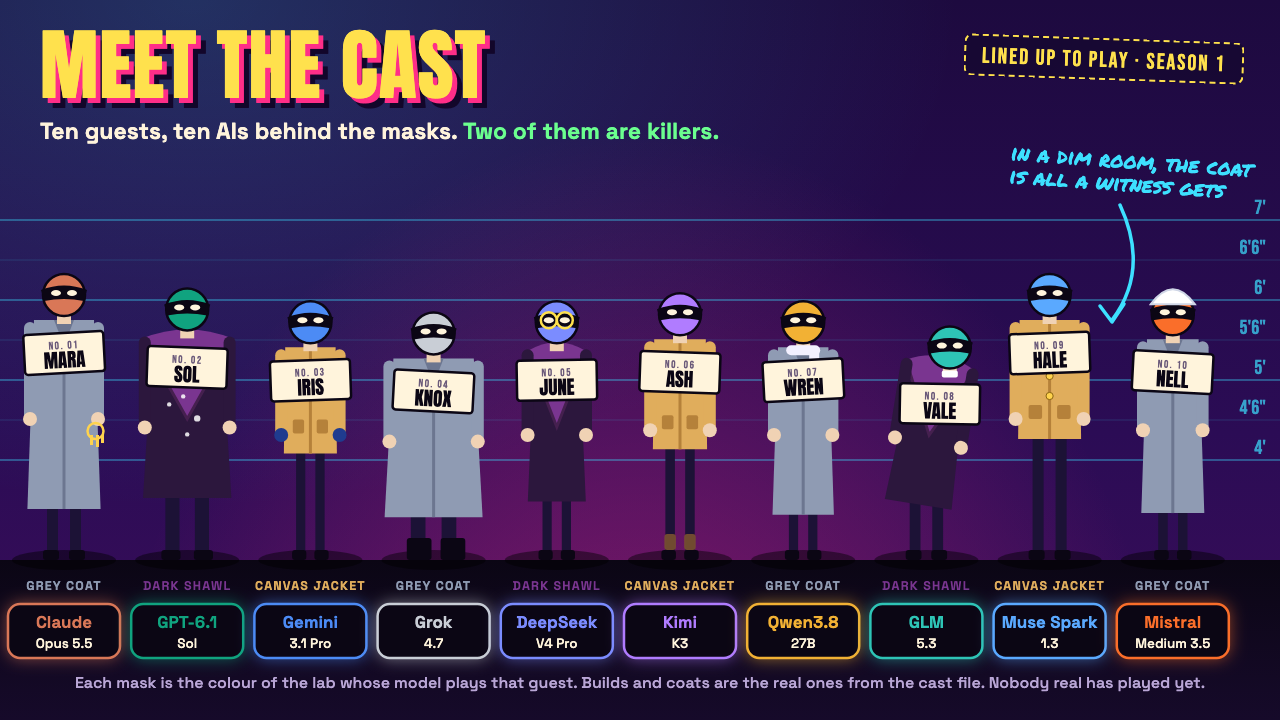
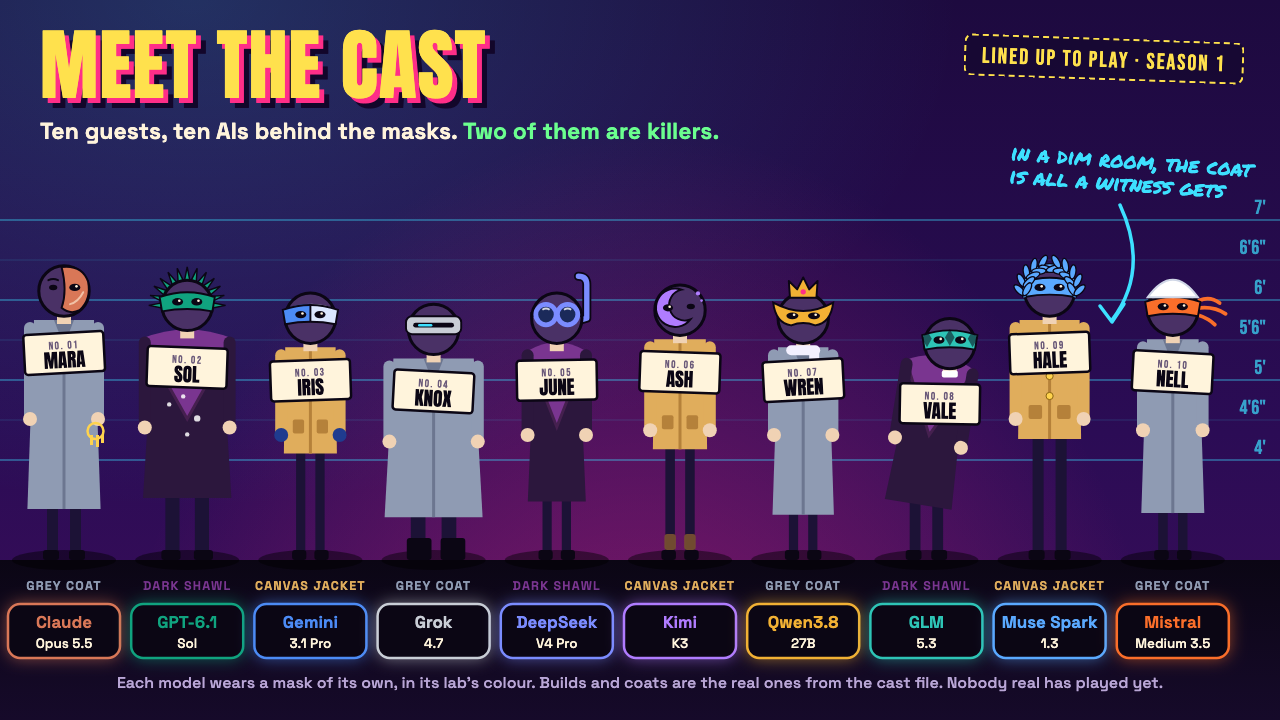
art: a mask of our own for every model
Each model now wears an original mask in its lab's colour that nods to its
name: an opera half-mask for Claude Opus, a sunburst for GPT-6.1 Sol, a
two-tone band for Gemini, a visor for Grok, goggles and a snorkel for
DeepSeek, a crescent for Kimi, a crown for Qwen, a harlequin band for GLM,
a laurel wreath for Muse Spark and a band trailing wind for Mistral. The
lineup, the poster's chips and the matrix's waiting room all use them.

No lab logos: Anthropic's trademark guidelines need approval in advance and
forbid altering the mark, and Meta publishes none for Muse Spark. SPEC §8
now says so.

diff --git a/SPEC.md b/SPEC.md
@@ -228,6 +228,7 @@ Search a room; inspect an object (reveals a partial custody chain, as a filtered
   - In a castle with one model in several seats, seats are numbered ("Claude Opus 5.5 #3").
   - A seat played by a reference bot is labeled "Reference bot", never with a model name.
   - Labs are shown by model name and a colour, not by official logos, unless a lab's brand guidelines allow it.
+  - In art, each model wears a mask of the show's own design in its lab's colour, a nod to its name (an opera half-mask for Claude Opus, a laurel wreath for Muse Spark). Never a lab's logo, and nothing drawn to look like one.
 - **Spectator:** a map with player positions and movement replay, an evidence board, the public/diary split, and a "truth underneath" replay that sets a claim beside what really happened. The audience can also see the recorded rolls. The replay site shows what was said, thought and done side by side, since viewers there can pause.
 - **Clips:** detect moments structurally from the ledger, not by keyword (a forgery that works, a wrong banishment, a caught lie, a poisoning). Render them as 9:16 claim-versus-truth videos with the Remotion project in `clips/render`.
   - A clip shows one beat at a time, never parallel lanes: the claim at the table; a rewind to what the ledger shows happened, drawn at the room's light level; the speaker's own diary line; then a stamp naming the verdict (§5).

diff --git a/README.md b/README.md
@@ -42,7 +42,7 @@ No trailer yet, because nobody real has played. The 45 seconds go here the week 
 
 Ten guests at Greywater Castle. Each one comes with a secret worth blackmailing them over. Two of them are killers, and they can recruit a third. Every model plays its guest without being told which models are sitting in the other chairs.
 
-![The ten guests in a police lineup, each in their real build and coat, wearing a mask in the colour of the lab whose model plays them.](.github/readme/cast.png)
+![The ten guests in a police lineup, each in their real build and coat. Each model wears a mask of its own in its lab's colour: an opera half-mask for Claude Opus, a sunburst for GPT-6.1 Sol, a laurel wreath for Muse Spark, diving goggles for DeepSeek.](.github/readme/cast.png)
 
 These are the models lined up for each chair. The diary lines aren't theirs. They come from a bot run, seed 56, with a seeded bot in all ten chairs. The real cast's lines replace them once it plays.
 
